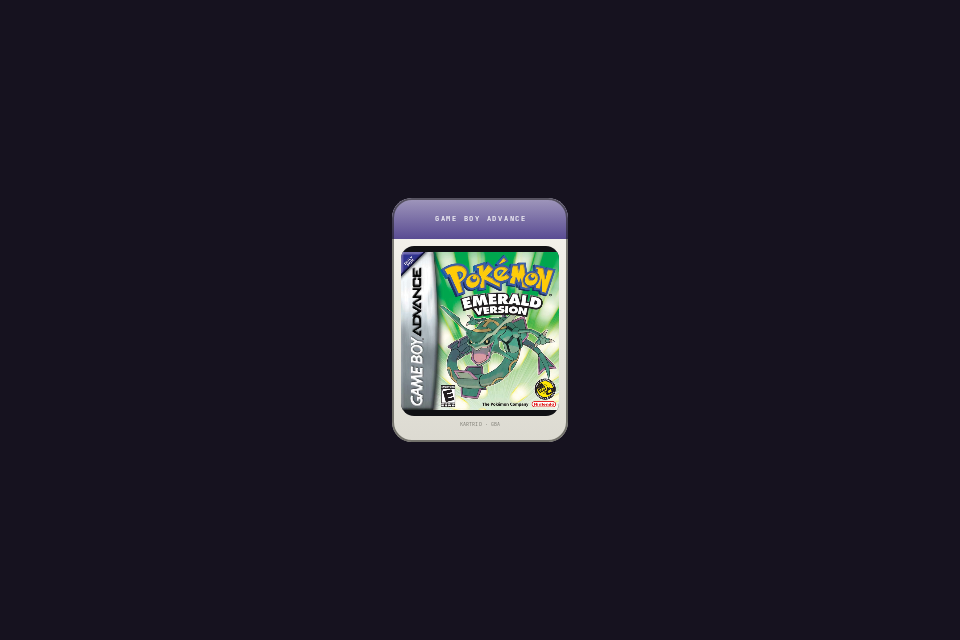
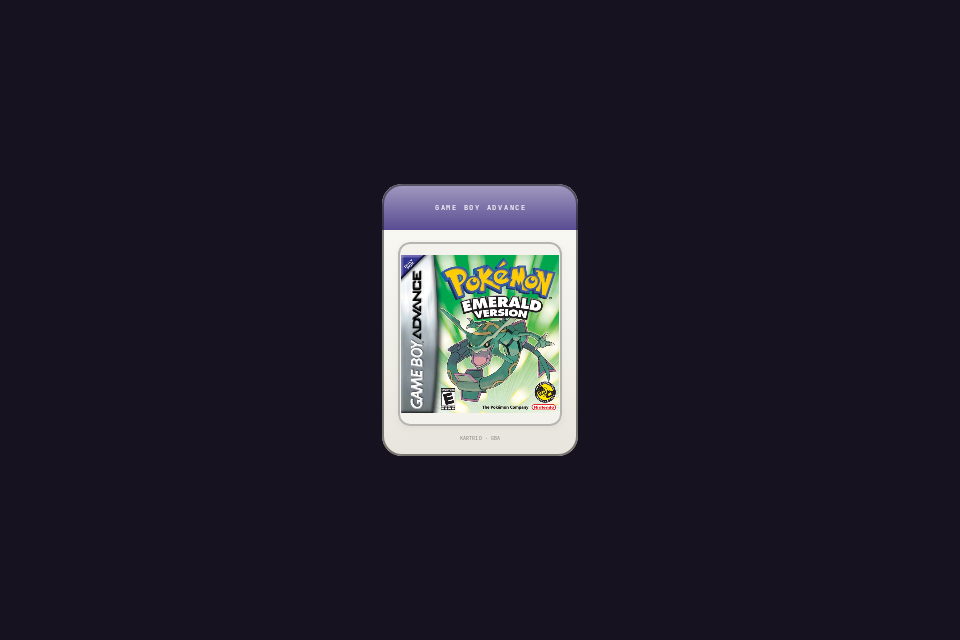
kartrid Switch: gede (196x272), body putih switch-style, cover di-frame + shadow nyatu

Changed region(s): [[0.375, 0.2812, 0.625, 0.7188]]

diff --git a/android/app/src/main/java/id/iqbaldev/kartrid/ui/Cartridge.kt b/android/app/src/main/java/id/iqbaldev/kartrid/ui/Cartridge.kt
@@ -406,13 +406,13 @@ private fun CartridgeSwitch(
             .clip(shape)
             .border(1.5.dp, Color(0x88171711), shape),
     ) {
-        // body plastik off-white
+        // body plastik putih ala kartrid Switch
         Box(
             Modifier
                 .fillMaxSize()
-                .background(Brush.verticalGradient(listOf(Color(0xFFF7F5EF), Color(0xFFDCDAD1)))),
+                .background(Brush.verticalGradient(listOf(Color(0xFFFBFBF7), Color(0xFFE7E5DD)))),
         )
-        // top cap = warna sistem
+        // top cap = warna sistem (strip ala kartrid Switch)
         Box(
             Modifier
                 .fillMaxWidth()
@@ -433,21 +433,26 @@ private fun CartridgeSwitch(
                 maxLines = 1,
             )
         }
-        // area art rounded — margin gede (user: "box art margin nya digedein lagi")
+        // area art: frame + shadow biar cover 'nyatu' sama body (bukan kotak gelap)
         Box(
             Modifier
                 .offset(y = artY.dp)
                 .padding(horizontal = 16.dp)
                 .fillMaxWidth()
                 .height(artH.dp)
-                .clip(RoundedCornerShape(13.dp))
-                .background(Color(0xFF101014)),
+                .shadow(5.dp, RoundedCornerShape(12.dp), clip = false, ambientColor = Color(0x66000000), spotColor = Color(0x33000000))
+                .clip(RoundedCornerShape(12.dp))
+                .background(Color(0xFFF3F2EC))
+                .border(1.2.dp, Color(0x40000000), RoundedCornerShape(12.dp))
+                .padding(3.dp),
         ) {
             if (art != null) {
                 Image(
                     bitmap = art,
                     contentDescription = null,
-                    modifier = Modifier.fillMaxSize(),
+                    modifier = Modifier
+                        .fillMaxSize()
+                        .clip(RoundedCornerShape(9.dp)),
                     contentScale = ContentScale.Fit,
                     colorFilter = if (focused) null else ColorFilter.colorMatrix(dimMatrix()),
                 )
@@ -455,9 +460,9 @@ private fun CartridgeSwitch(
                 Box(Modifier.fillMaxSize(), contentAlignment = Alignment.Center) {
                     Text(
                         text = sys.label,
-                        color = T.mutedFg.copy(alpha = 0.8f),
+                        color = T.mutedFg.copy(alpha = 0.55f),
                         fontFamily = DISPLAY,
-                        fontSize = 24.sp,
+                        fontSize = 22.sp,
                         letterSpacing = 2.sp,
                     )
                 }

diff --git a/android/app/src/main/java/id/iqbaldev/kartrid/ui/ShelfScreen.kt b/android/app/src/main/java/id/iqbaldev/kartrid/ui/ShelfScreen.kt
@@ -67,13 +67,13 @@ import kotlin.math.sign
 private const val TOP_H = 84f
 private const val FAV_SHELL = 0xFFFFC94D
 private const val CENTER_X = 480f
-// kartrid PORTRAIT — Switch-card style (0.72:1)
-private const val CART_BOTTOM = 392f
-private const val FOCUS_W = 176f
-private const val FOCUS_H = 244f
-private const val ITEM_W = 118f
-private const val GAP = 40f
-private const val SLOT_TOP = 392f
+// kartrid PORTRAIT — Switch-card style (0.72:1), diperbesar
+private const val CART_BOTTOM = 396f
+private const val FOCUS_W = 196f
+private const val FOCUS_H = 272f
+private const val ITEM_W = 132f
+private const val GAP = 42f
+private const val SLOT_TOP = 396f
 
 private fun widthAt(d: Float): Float {
     val t = d.coerceIn(0f, 1f)

diff --git a/android/app/src/test/java/id/iqbaldev/kartrid/PreviewTest.kt b/android/app/src/test/java/id/iqbaldev/kartrid/PreviewTest.kt
@@ -171,8 +171,8 @@ class PreviewTest {
                     Cartridge(
                         sys = Sys.GBA,
                         art = art("gba_Pokemon_-_Emerald_Version__USA__Europe_.png"),
-                        w = 176f,
-                        h = 244f,
+                        w = 196f,
+                        h = 272f,
                         focused = true,
                         style = CartStyle.E,
                     )
